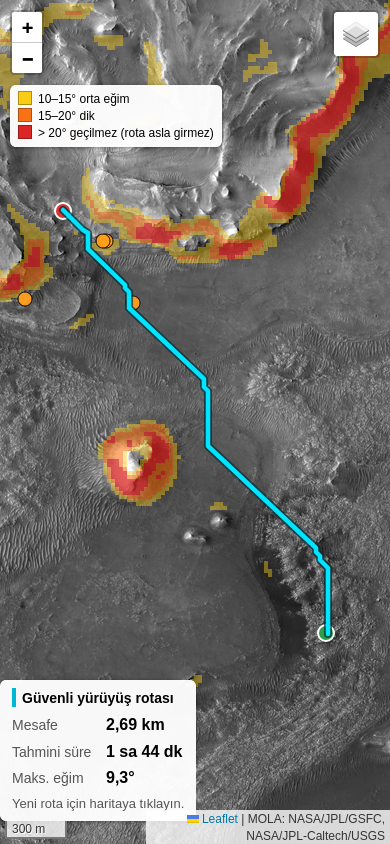
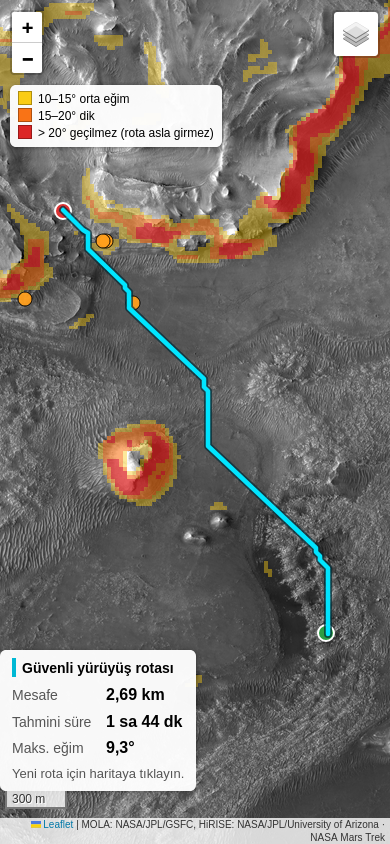
Frontend: HiRISE kredisi düzeltildi, mobil atıf çakışması giderildi, ekran görüntüleri yenilendi

Changed region(s): [[0.0, 0.7701, 1.0, 1.0]]

diff --git a/frontend/index.html b/frontend/index.html
@@ -62,8 +62,12 @@
       .egim-lejant { font-size: 12px; padding: 6px 8px; }
       .egim-lejant .baslik { display: none; }
       .egim-lejant .kare { width: 12px; height: 12px; }
-      /* Uzun atıf satırı ölçek çubuğunun üstüne binmesin: alt satıra kırılsın */
-      .leaflet-control-attribution { max-width: 60vw; white-space: normal; text-align: right; }
+      /* Uzun kredi satırı (kısaltılamaz: kullanım politikası tam metni istiyor)
+         en altta tam genişlikte durur; sol alttaki ölçek ve rota kutusu onun
+         üstüne itilir, böylece hiçbiri birbirinin üstüne binmez. */
+      .leaflet-bottom.leaflet-right { left: 0; }
+      .leaflet-control-attribution { font-size: 10px; line-height: 1.3; text-align: right; white-space: normal; }
+      .leaflet-bottom.leaflet-left { bottom: 30px; }
     }
 
     /* Bilim noktası popup'ı */

diff --git a/frontend/config.js b/frontend/config.js
@@ -56,7 +56,8 @@ const MAP_ZOOM = 12;
 // curl ile doğrulandı: z0..z17 var, z18 ve üstü 404 döner.
 const HIRISE = {
   url: "https://trek.nasa.gov/tiles/Mars/EQ/JEZ_hirise_soc_006_orthoMosaic_25cm_Eqc_latTs0_lon0_first_dd/1.0.0//default/default028mm/{z}/{y}/{x}.png",
-  attribution: "NASA/JPL-Caltech/USGS",
+  // Kredi: data_sources.md → HiRISE kullanım politikası (uahirise.org/media/usage.php)
+  attribution: "HiRISE: NASA/JPL/University of Arizona · NASA Mars Trek",
   maxNativeZoom: 17, // Sunucudaki en yüksek gerçek zoom seviyesi
   maxZoom: 19,       // 18-19'da Leaflet z17 tile'larını büyüterek gösterir
   // Kapsama alanı (WMTSCapabilities.xml'deki LowerCorner/UpperCorner).
